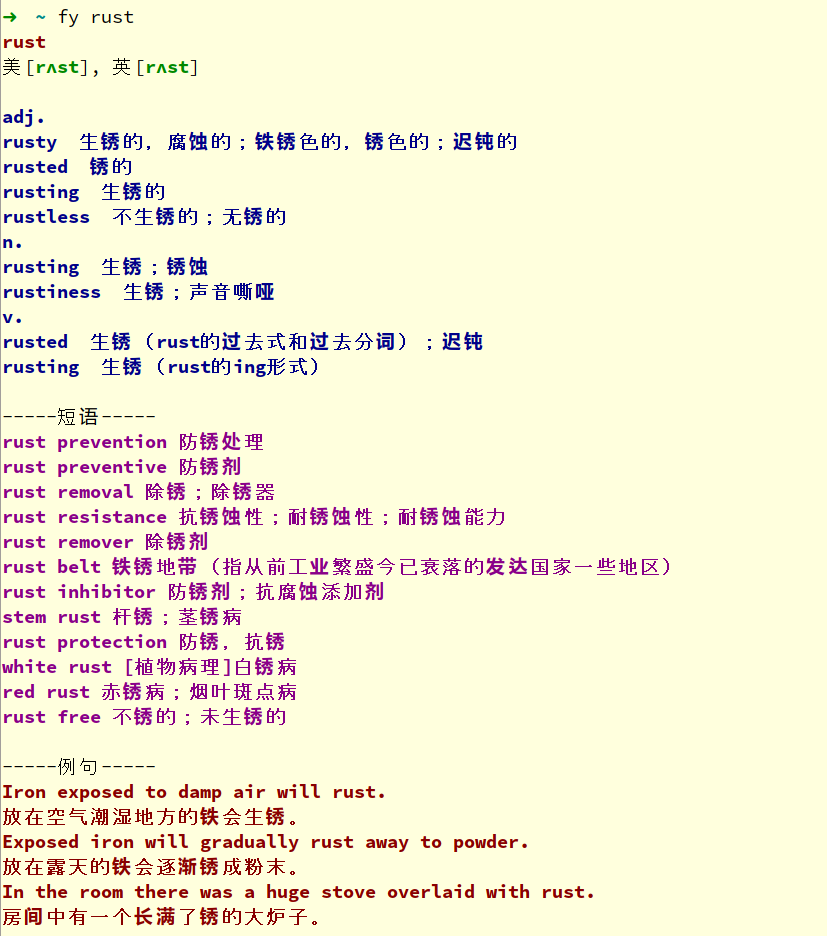
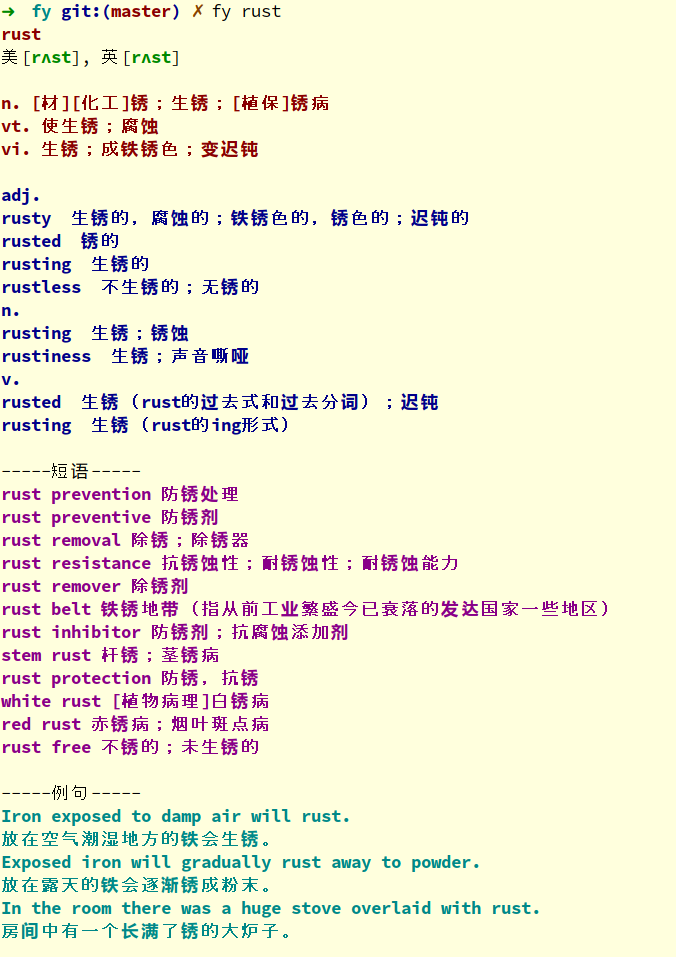
add synos

diff --git a/src/objs.rs b/src/objs.rs
@@ -19,6 +19,7 @@ pub struct FyResult {
     phrs: Option<phrs>,
     rel_word: Option<rel_word>,
     simple: Option<simple>,
+    syno: Option<synos>,
 }
 
 #[derive(Debug, Clone, Serialize, Deserialize)]
@@ -99,6 +100,22 @@ struct word {
     tran: String,
 }
 
+#[derive(Debug, Clone, Serialize, Deserialize)]
+struct synos {
+    synos: Vec<syno>,
+}
+
+#[derive(Debug, Clone, Serialize, Deserialize)]
+struct syno {
+    syno: syno_one,
+}
+
+#[derive(Debug, Clone, Serialize, Deserialize)]
+struct syno_one {
+    pos: String,
+    tran: String,
+}
+
 impl phrs {
     fn text(&self) -> String {
         let mut result = String::new();
@@ -148,11 +165,22 @@ impl rel_word {
     }
 }
 
+impl synos {
+    fn text(&self) -> String {
+        let mut result = String::new();
+        self.synos.iter().for_each(|one| {
+            result.push_str(&(String::new() + &one.syno.pos + &" " + &one.syno.tran + &"\n"));
+        });
+        result
+    }
+}
+
 impl FyResult {
     pub fn text(&self) -> String {
         format!(r#"{}
 美[{}], 英[{}]
 
+{}
 {}
 -----短语-----
 {}
@@ -171,6 +199,10 @@ impl FyResult {
                     }
                     _ => "".into()
                 },
+                match &self.syno {
+                    Some(syno) => syno.text().red().bold(),
+                    _ => "".into()
+                },
                 match &self.rel_word {
                     Some(rel) => rel.text().blue().bold(),
                     _ => "".into()
@@ -180,7 +212,7 @@ impl FyResult {
                     _ => "".into()
                 },
                 match &self.blng_sents_part {
-                    Some(blng) => blng.text().red().bold(),
+                    Some(blng) => blng.text().cyan().bold(),
                     _ => "".into()
                 }
         )

diff --git a/src/main.rs b/src/main.rs
@@ -44,7 +44,7 @@ fn main() -> Result<(), Box<dyn Error>> {
     let to_search = matches.value_of("to_search").unwrap();
 
     let url = "http://dict.youdao.com/jsonapi?";
-    let dicts = [["blng_sents_part", "rel_word", "simple", "phrs", "meta"]];
+    let dicts = [["blng_sents_part", "rel_word", "simple", "phrs", "meta", "syno"]];
 
     let dicts = json!(
         {
@@ -63,7 +63,7 @@ fn main() -> Result<(), Box<dyn Error>> {
         .query(&[("dicts", dicts)])
         .send()?;
     let json_result: FyResult = resp.json()?;
-    println!("{}", json_result.text());
+    println!("{}", &json_result.text());
 
     Ok(())
 }
